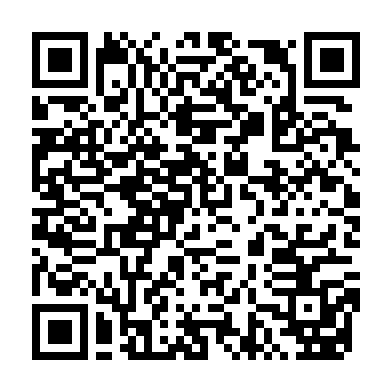
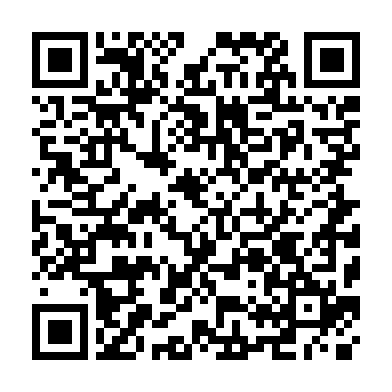
Pakketpagina GEDA: naam GEDA Dakwerken, nieuwe reclameplaatjes en QR naar zijn eigen nummer
Claude-Session: https://claude.ai/code/session_01RYqMNN2VzpJXTZWiUEwLXK

Changed region(s): [[0.0612, 0.0612, 0.9184, 0.9184]]

diff --git a/pakket/geda/index.html b/pakket/geda/index.html
@@ -1,6 +1,6 @@
 <!doctype html>
 <html lang="nl"><head><meta charset="utf-8"><meta name="viewport" content="width=device-width, initial-scale=1"><meta name="robots" content="noindex">
-<title>GEDA Werken · jouw complete pakket</title><meta name="theme-color" content="#172e49">
+<title>GEDA Dakwerken · jouw complete pakket</title><meta name="theme-color" content="#172e49">
 <link rel="icon" href="logo.png">
 <style>*{box-sizing:border-box}body{margin:0;font:16px/1.5 system-ui,-apple-system,"Segoe UI",Roboto,Arial,sans-serif;color:#172033;background:#f4f6f9}
 header{background:#172e49;color:#fff;padding:28px 20px 34px}header .in,main{max-width:640px;margin:0 auto}
@@ -30,14 +30,14 @@ ol{margin:0 0 12px;padding-left:20px}a{color:#172e49}footer{max-width:640px;marg
 .lijst{margin:0;padding-left:20px}.lijst li{margin-bottom:6px}
 .prijs{display:grid;grid-template-columns:1fr auto;gap:6px 12px;font-size:15px;margin:6px 0 14px}.prijs b{text-align:right}
 </style></head><body>
-<header><div class="in"><div class="kop"><img src="logo.png" alt="Logo van GEDA Werken"><div><h1>Jouw complete pakket</h1><p>Zo werkt Vakreceptie voor GEDA Werken. Alles hieronder is gemaakt in jouw naam en huisstijl.</p></div></div></div></header>
+<header><div class="in"><div class="kop"><img src="logo.png" alt="Logo van GEDA Dakwerken"><div><h1>Jouw complete pakket</h1><p>Zo werkt Vakreceptie voor GEDA Dakwerken. Alles hieronder is gemaakt in jouw naam en huisstijl.</p></div></div></div></header>
 <main>
 <section class="blok accent"><span class="pak">Staat aan</span><h2>De WhatsApp-receptie</h2>
 <p>Je hebt de WhatsApp-receptie: jouw eigen link en QR-code, dag en nacht antwoord voor je klanten en elke aanvraag als overzichtelijke werkbon op je eigen WhatsApp.</p>
 <div class="rij"><a class="knop" href="#reclame">Naar je reclame en QR-code</a></div></section>
 
 <section class="blok"><span class="pak">Zo komt een aanvraag binnen</span><h2>Eén werkbon, alles op een rij</h2>
-<div class="chat"><div class="bel">📋 <b>NIEUWE KLUS</b> · GEDA Werken
+<div class="chat"><div class="bel">📋 <b>NIEUWE KLUS</b> · GEDA Dakwerken
 🔴 <b>SPOED</b> · lekkage, water komt binnen
 
 🔧 <b>Klus</b>
@@ -59,14 +59,14 @@ Lekkage boven de badkamer, graag vandaag iemand langs
 
 <section class="blok"><span class="pak">Pakket Plus</span><h2>Offerte-opvolging per mail en WhatsApp</h2>
 <p>Heeft je klant na 3 dagen nog niet gereageerd op je offerte? Dan krijgt hij vanzelf deze mail, in jouw huisstijl. Na 7 dagen volgt nog één herinnering. Reageert de klant, dan stopt het en krijg jij te zien wat hij wil.</p>
-<div class="mail"><div class="mailkop">Van: <b>GEDA Werken</b><br>Onderwerp: <b>Uw offerte van GEDA Werken: nog vragen?</b></div>
-<div class="mailband"><img src="logo.png" alt=""><span>GEDA Werken</span></div>
+<div class="mail"><div class="mailkop">Van: <b>GEDA Dakwerken</b><br>Onderwerp: <b>Uw offerte van GEDA Dakwerken: nog vragen?</b></div>
+<div class="mailband"><img src="logo.png" alt=""><span>GEDA Dakwerken</span></div>
 <div class="mailtekst"><p>Beste mevrouw Jansen,</p><p>Vorige week stuurden wij u onze offerte O2026-0012. Heeft u er nog vragen over, of zullen we het werk inplannen?</p>
 <p><a style="display:inline-block;padding:12px 18px;border-radius:10px;font:700 15px system-ui,Arial,sans-serif;text-decoration:none;background:#2364e7;color:#fff" href="#">Ja, plan het in</a> &nbsp; <a style="display:inline-block;padding:12px 18px;border-radius:10px;font:700 15px system-ui,Arial,sans-serif;text-decoration:none;background:#e7ebf2;color:#172033" href="#">Ik heb een vraag</a></p>
-<p>Met vriendelijke groet,<br><b>GEDA Werken</b></p></div></div></section>
+<p>Met vriendelijke groet,<br><b>GEDA Dakwerken</b></p></div></div></section>
 
 <section class="blok"><span class="pak">Pakket Plus</span><h2>Google-reviews na elke klus</h2>
-<div class="chat"><div class="bel">Bedankt dat u voor GEDA Werken koos. Bent u tevreden? Dan helpt een korte review ons enorm: één tik op de link.
+<div class="chat"><div class="bel">Bedankt dat u voor GEDA Dakwerken koos. Bent u tevreden? Dan helpt een korte review ons enorm: één tik op de link.
 
 Niet tevreden? Laat het ons hier weten, dan lossen we het eerst samen op.<span class="tijd">10:20</span></div><div class="bel eigen">Top geholpen, review staat erop 👍<span class="tijd">10:20</span></div></div>
 <p class="klein" style="margin-top:10px">Een klacht komt eerst bij jou binnen, niet op Google.</p></section>
@@ -79,7 +79,7 @@ Niet tevreden? Laat het ons hier weten, dan lossen we het eerst samen op.<span c
 <figure><a href="reclame-vierkant.png" download><img src="reclame-vierkant.png" alt="Reclameplaatje voor een WhatsApp-bericht" style="width:100%;border-radius:14px"></a><figcaption>Voor een WhatsApp-bericht</figcaption></figure>
 <figure><a href="reclame-status.png" download><img src="reclame-status.png" alt="Reclameplaatje voor de WhatsApp-status" style="width:100%;max-width:360px;border-radius:14px"></a><figcaption>Voor je WhatsApp-status</figcaption></figure>
 <figure><a href="reclame-banner.png" download><img src="reclame-banner.png" alt="Banner voor in je e-mail" style="width:100%;border-radius:14px"></a><figcaption>Banner voor je e-mail</figcaption></figure>
-<figure><a href="qr-code.png" download><img src="qr-code.png" alt="QR-code naar de digitale assistent van GEDA Werken" style="width:180px;border:1px solid #e1e6ee;border-radius:12px"></a><figcaption>QR-code voor je bus, visitekaartje en offertes</figcaption></figure>
+<figure><a href="qr-code.png" download><img src="qr-code.png" alt="QR-code naar de digitale assistent van GEDA Dakwerken" style="width:180px;border:1px solid #e1e6ee;border-radius:12px"></a><figcaption>QR-code voor je bus, visitekaartje en offertes</figcaption></figure>
 <p>Link voor je klanten: <b>vakreceptie.nl/geda</b></p></section>
 
 
